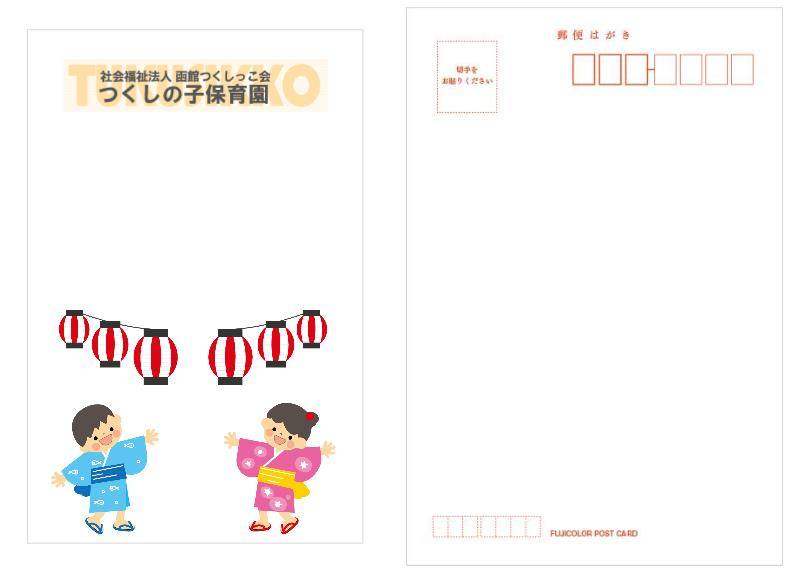
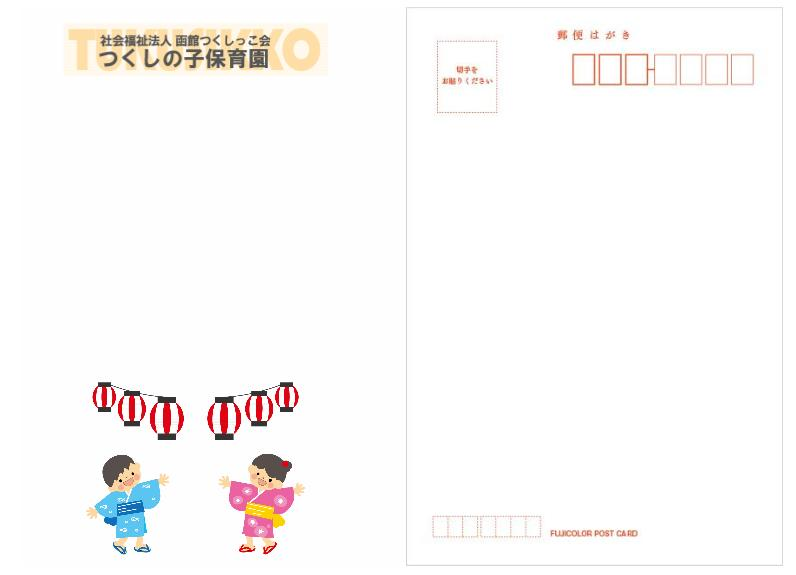
文章のテンプレートを作成中、レイアウトを調整

Changed region(s): [[0.0603, 0.5322, 0.4221, 0.9757], [0.0603, 0.0296, 0.4221, 0.207]]

diff --git a/development/kindergarten_roster_management/www/event.html b/development/kindergarten_roster_management/www/event.html
@@ -9,6 +9,7 @@
 <body>
     <div class='header'><h1>イベントハガキ作成</h1></div>
 
+    <h2><p id="aisatsu"><font size="7"></font></p></h2>
     <h2><p id="test"><font size="7"></font></p></h2>
     <p id="image"></p>
 
@@ -21,7 +22,7 @@
         <option value="4">餅つき</option>
         <option value="5">卒園式</option>
     </select>
-    <br>
+
     <select name="year" onchange="year_outputSelectedValueAndText(this);">
         <option value="0">年</option>
         <option value="2016">2016年</option>
@@ -104,13 +105,13 @@
 
     <select name="week" onchange="week_outputSelectedValueAndText(this);">
         <option value="">曜日</option>
-        <option value="日曜日">日曜日</option>
-        <option value="月曜日">月曜日</option>
-        <option value="火曜日">火曜日</option>
-        <option value="水曜日">水曜日</option>
-        <option value="木曜日">木曜日</option>
-        <option value="金曜日">金曜日</option>
-        <option value="土曜日">土曜日</option>
+        <option value="(日)">日曜日</option>
+        <option value="(月)">月曜日</option>
+        <option value="(火)">火曜日</option>
+        <option value="(水)">水曜日</option>
+        <option value="(木)">木曜日</option>
+        <option value="(金)">金曜日</option>
+        <option value="(土)">土曜日</option>
     </select>
 
     <div id="message"></div>
@@ -162,20 +163,24 @@
         }
 
         function Printout() {
-            document.write('<img src="./img/load.gif" width="792" height="568" />');
+            if ((eveindx != 0) && (yearindx != 0) && (monthindx != 0) && (dayindx != 0) && (weekindx != 0)) {
+                document.write('<img src="./img/load.gif" width="100" height="100" />');
+                document.write("印刷中");
+            } else {
+                alert("印刷するものがありません");
+            }
         }
 
         function OnButtonClick() {
             if ((eveindx != 0) && (yearindx != 0) && (monthindx != 0) && (dayindx != 0) && (weekindx != 0)) { // インデックスが0番でなかったら
                 var text = (year + month + day + week);
-                document.getElementById("test").innerHTML = (year + month + day + week);
-                document.getElementById("image").innerHTML = "<img src=\"./img/bazzer.jpg\">";
+                document.getElementById("aisatsu").innerHTML = "<h3><p id=\"aisatsu\"><font size=\"2.9\" font-family:HGP創英角ﾎﾟｯﾌﾟ体;>学校の運うんどう会も終わって、まいにち、<br>べんきょう、スポーツ、あそびと、がんばっ<br>ていることと思います。<br>つくしの子では、水や、どろんこあそびを、<br>まいにち元気に、たのしんでいます。<br>まい年やっている、つくしの子バザーがある<br>ので、お友だちを誘ってぜひあそびにきませ<br>んか？待っています。</font></p></h3>";
+                document.getElementById("test").innerHTML = "<h2><p id=\"test\"><font size=\"5.5\">" + (year + month + day + weekindx) + "</font></p></h2>";
 
-                //var elem = document.getElementById("test");
-                //elem.innerHTML = "<span style='color: red;'></span>";
+                
 
                 console.log(eve);
-              
+
                 if (eveindx == "1") {
                     document.getElementById("image").innerHTML = "<img src=\"./img/bazzer.jpg\">";
                 } else if (eveindx == "2") {

diff --git a/development/kindergarten_roster_management/www/assets/ratchet/css/ratchet.css b/development/kindergarten_roster_management/www/assets/ratchet/css/ratchet.css
@@ -331,13 +331,16 @@ h1, .h1 {
 h2, .h2 {
   font-size: 300px;
   position: relative;
-  top: 200px;
-  left: 140px;
+  top: 150px;
+  left: 30px;
 
 }
 
 h3, .h3 {
   font-size: 24px;
+position: relative;
+  top: 100px;
+  left: 30px;
 }
 
 h4, .h4 {
